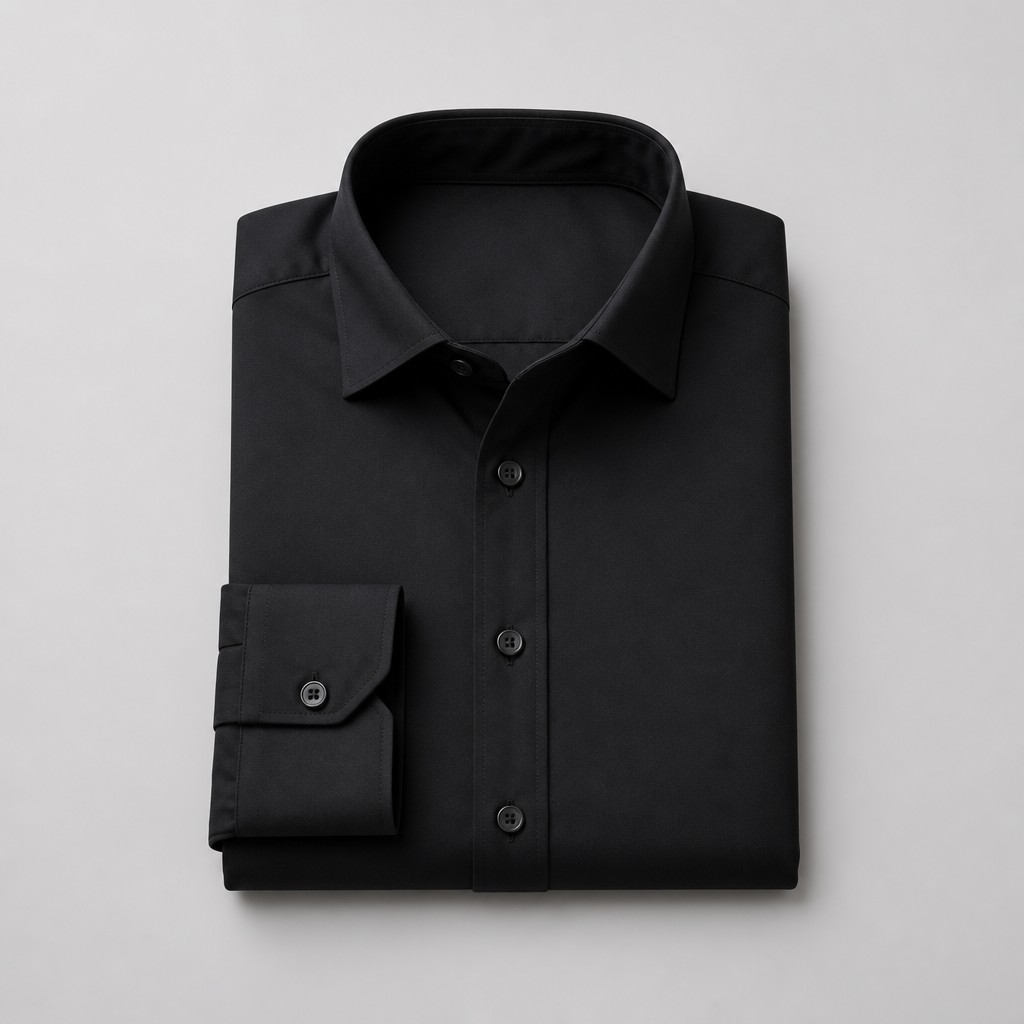
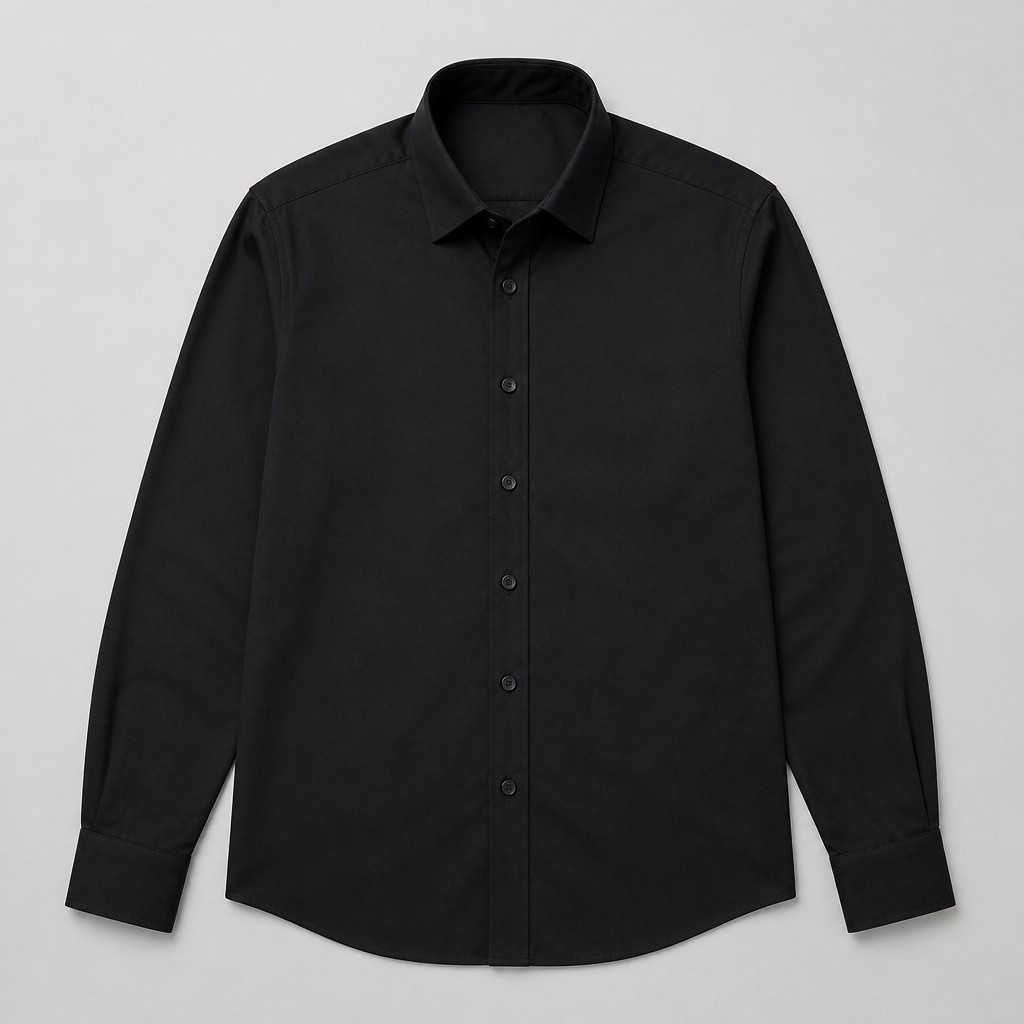
Lead Apparel shirts with Oversized and use unfolded photos (#123)
Put Oversized Shirt first in the apparel catalog so the Apparel hub
cover and shirts listing open on that product, and replace both shirt
images with flat unfolded studio shots instead of folded stacks.

diff --git a/web/src/lib/apparel.ts b/web/src/lib/apparel.ts
@@ -36,7 +36,7 @@ export const APPAREL_SUBCATEGORIES: ApparelSubcategory[] = [
   {
     id: "shirts",
     label: "Shirts",
-    description: "Nice shirts, oversized tees, and more designs to come",
+    description: "Oversized tees, nice shirts, and more designs to come",
     listing: "collection",
   },
   {
@@ -126,18 +126,7 @@ export const OBSOLETE_APPAREL_SLUGS = [
  */
 export const APPAREL_CATALOG: ApparelCatalogItem[] = [
   // ── Shirts (multi-product) ──────────────────────────────────────────────
-  {
-    slug: "voronyz-nice-shirt",
-    subcategory: "shirts",
-    name: "Nice Shirt",
-    description: "Polished everyday shirt with a sharp collar and soft hand-feel.",
-    priceCents: 6800,
-    colors: ["black", "white", "grey"],
-    sizes: [...APPAREL_SIZES],
-    image: "/products/apparel/nice-shirt.jpg",
-    skuPrefix: "APP-NICE",
-    comingSoon: true,
-  },
+  // Oversized first: Apparel hub cover + shirts listing order follow catalog order.
   {
     slug: "voronyz-oversized-tee",
     subcategory: "shirts",
@@ -148,6 +137,18 @@ export const APPAREL_CATALOG: ApparelCatalogItem[] = [
     sizes: [...APPAREL_SIZES],
     image: "/products/apparel/shirt.jpg",
     skuPrefix: "APP-TEE",
+    comingSoon: true,
+  },
+  {
+    slug: "voronyz-nice-shirt",
+    subcategory: "shirts",
+    name: "Nice Shirt",
+    description: "Polished everyday shirt with a sharp collar and soft hand-feel.",
+    priceCents: 6800,
+    colors: ["black", "white", "grey"],
+    sizes: [...APPAREL_SIZES],
+    image: "/products/apparel/nice-shirt.jpg",
+    skuPrefix: "APP-NICE",
     comingSoon: true,
   },
   // ── Sweaters (multi-product) ────────────────────────────────────────────
